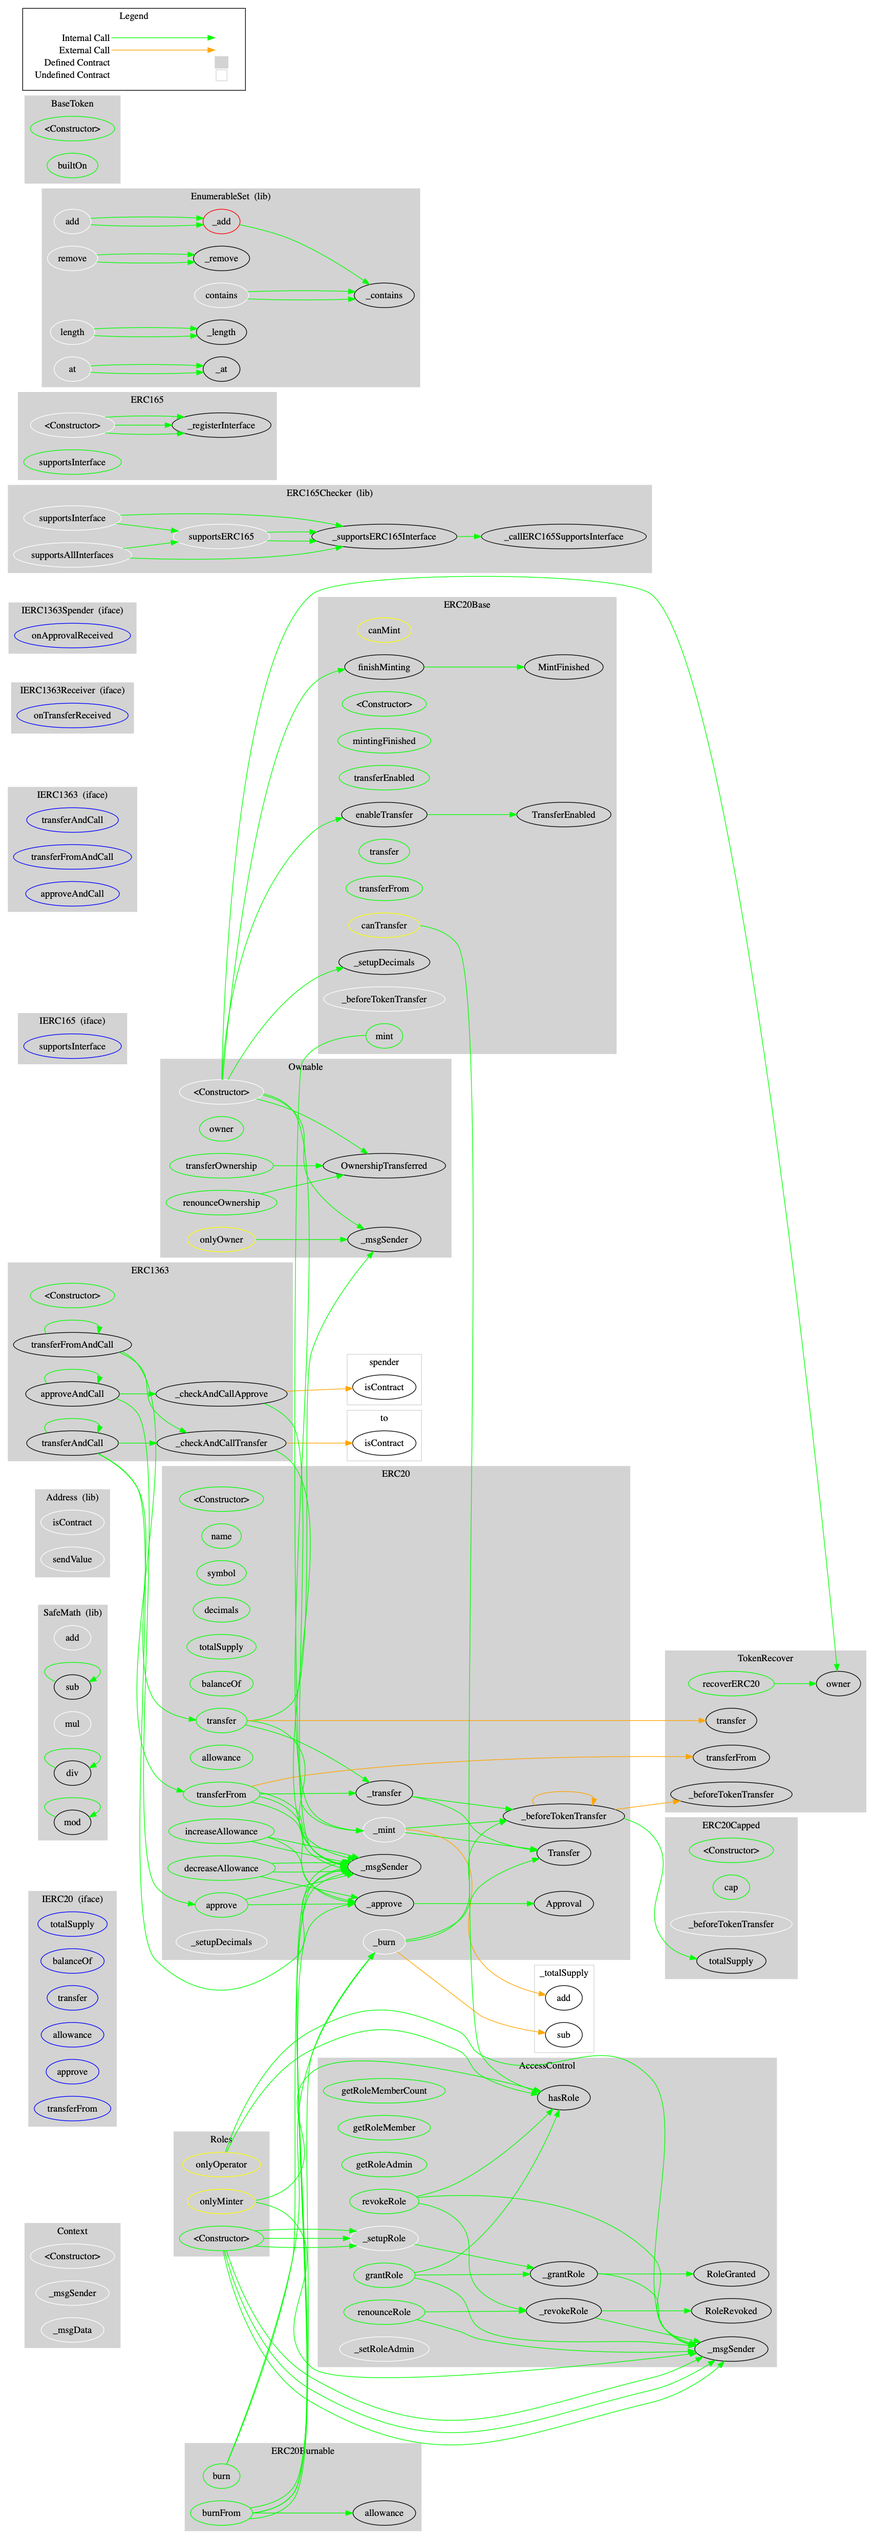
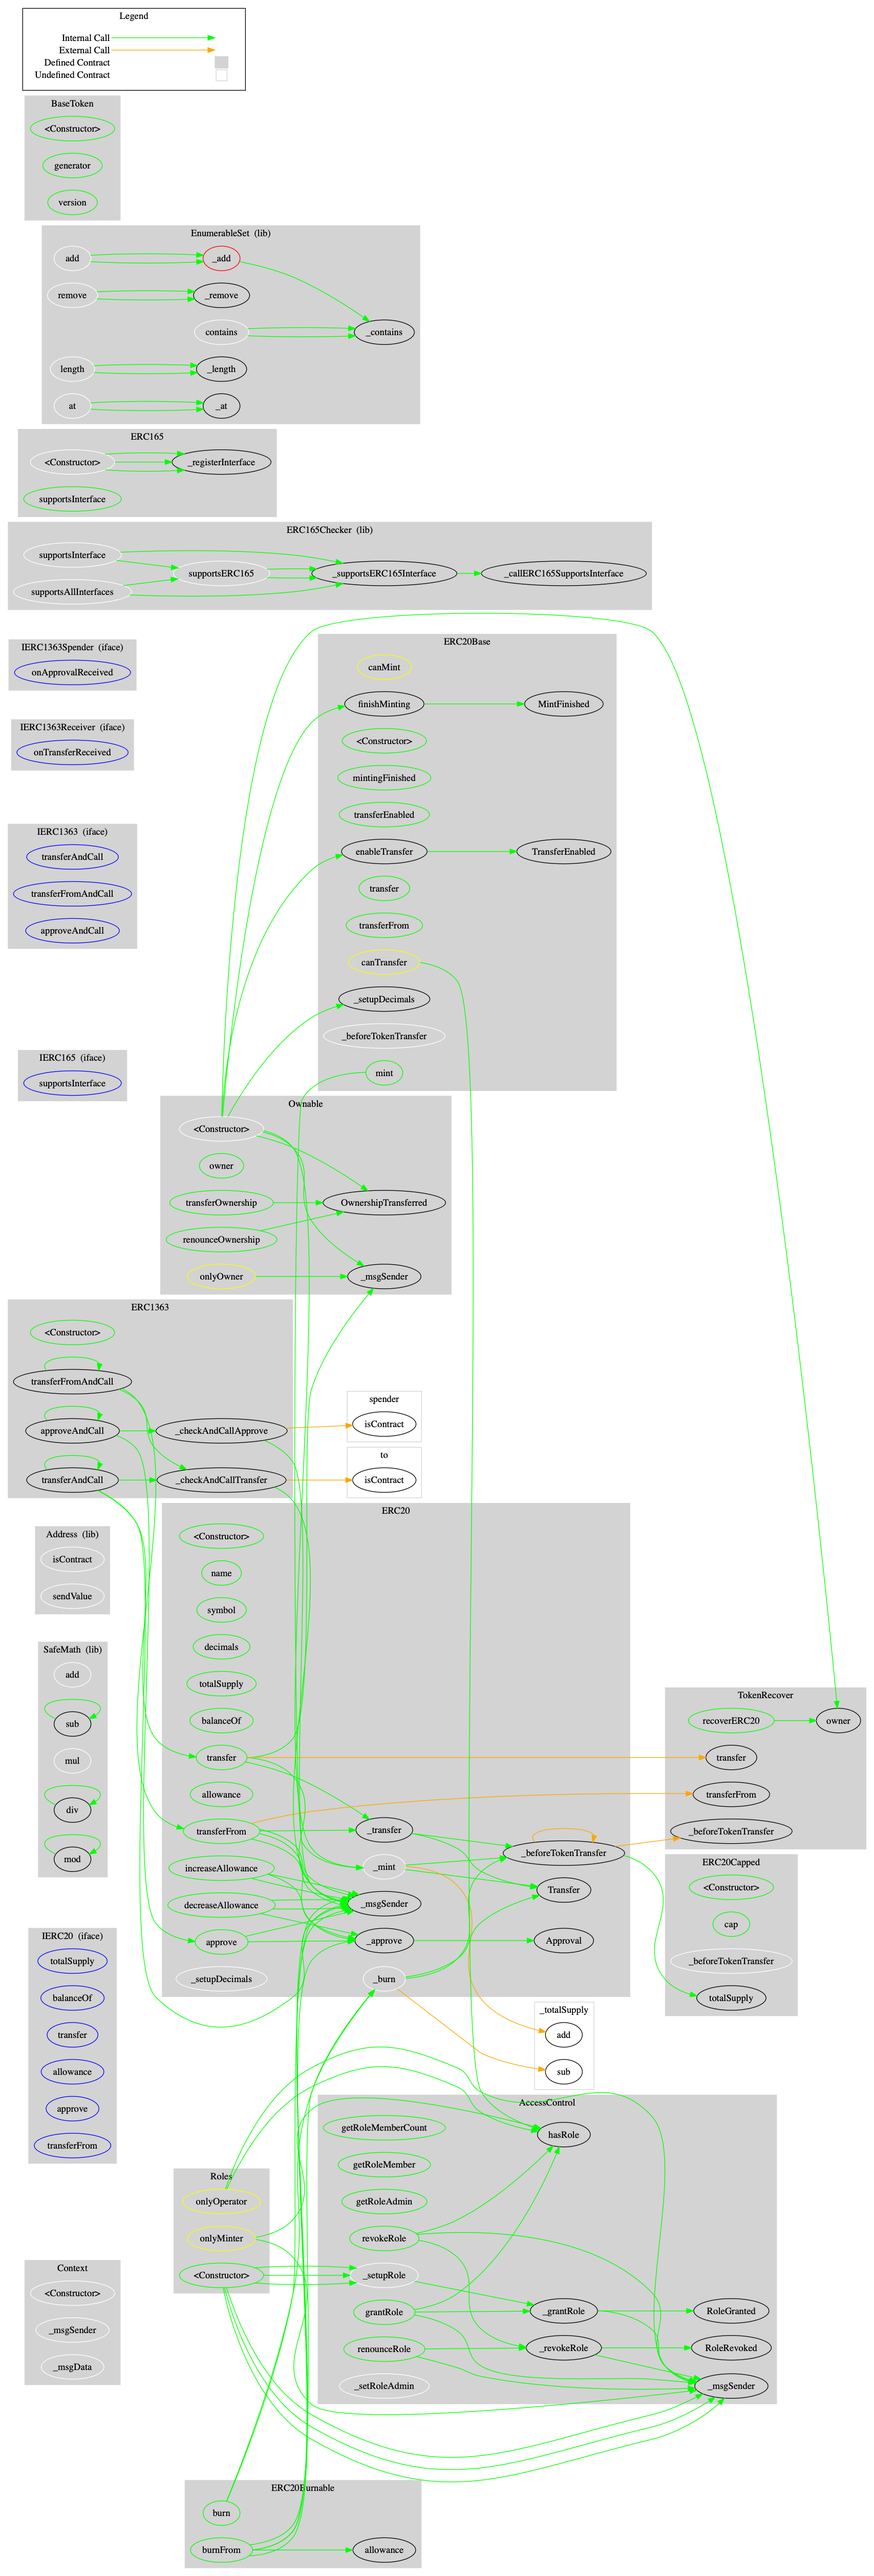
feat: move version and generator

diff --git a/test/BaseToken.test.js b/test/BaseToken.test.js
@@ -11,7 +11,10 @@ contract('BaseToken', function ([owner, anotherAccount, minter, operator, recipi
   const _cap = new BN(200000000);
   const _initialSupply = new BN(100000000);
 
-  const _builtOn = 'https://vittominacori.github.io/erc20-generator/#v3.1.0';
+  const _builtOn = {
+    generator: 'https://vittominacori.github.io/erc20-generator',
+    version: 'v3.1.0',
+  };
 
   context('creating valid token', function () {
     describe('as a ERC20Capped', function () {
@@ -192,8 +195,12 @@ contract('BaseToken', function ([owner, anotherAccount, minter, operator, recipi
       );
     });
 
-    it('should have a builtOn value', async function () {
-      (await this.token.builtOn()).should.be.equal(_builtOn);
+    it('should have a generator value', async function () {
+      _builtOn.generator.should.be.equal(await this.token.generator());
+    });
+
+    it('should have a version value', async function () {
+      _builtOn.version.should.be.equal(await this.token.version());
     });
 
     shouldBehaveLikeERC20Base(

diff --git a/analysis/description-table/BaseToken.md b/analysis/description-table/BaseToken.md
@@ -5,7 +5,7 @@
 
 |  File Name  |  SHA-1 Hash  |
 |-------------|--------------|
-| dist/BaseToken.dist.sol | f4dc18ef91660f2bec076cc52f7ba66b9b1e5ccb |
+| dist/BaseToken.dist.sol | 02817b954737232d8f8d4e359931e2fbb63222af |
 
 
 ### Contracts Description Table
@@ -166,7 +166,8 @@
 ||||||
 | **BaseToken** | Implementation | ERC20Base |||
 | └ | <Constructor> | Public ❗ |  💵 | ERC20Base |
-| └ | builtOn | Public ❗ |   |NO❗ |
+| └ | generator | Public ❗ |   |NO❗ |
+| └ | version | Public ❗ |   |NO❗ |
 
 
 ### Legend
